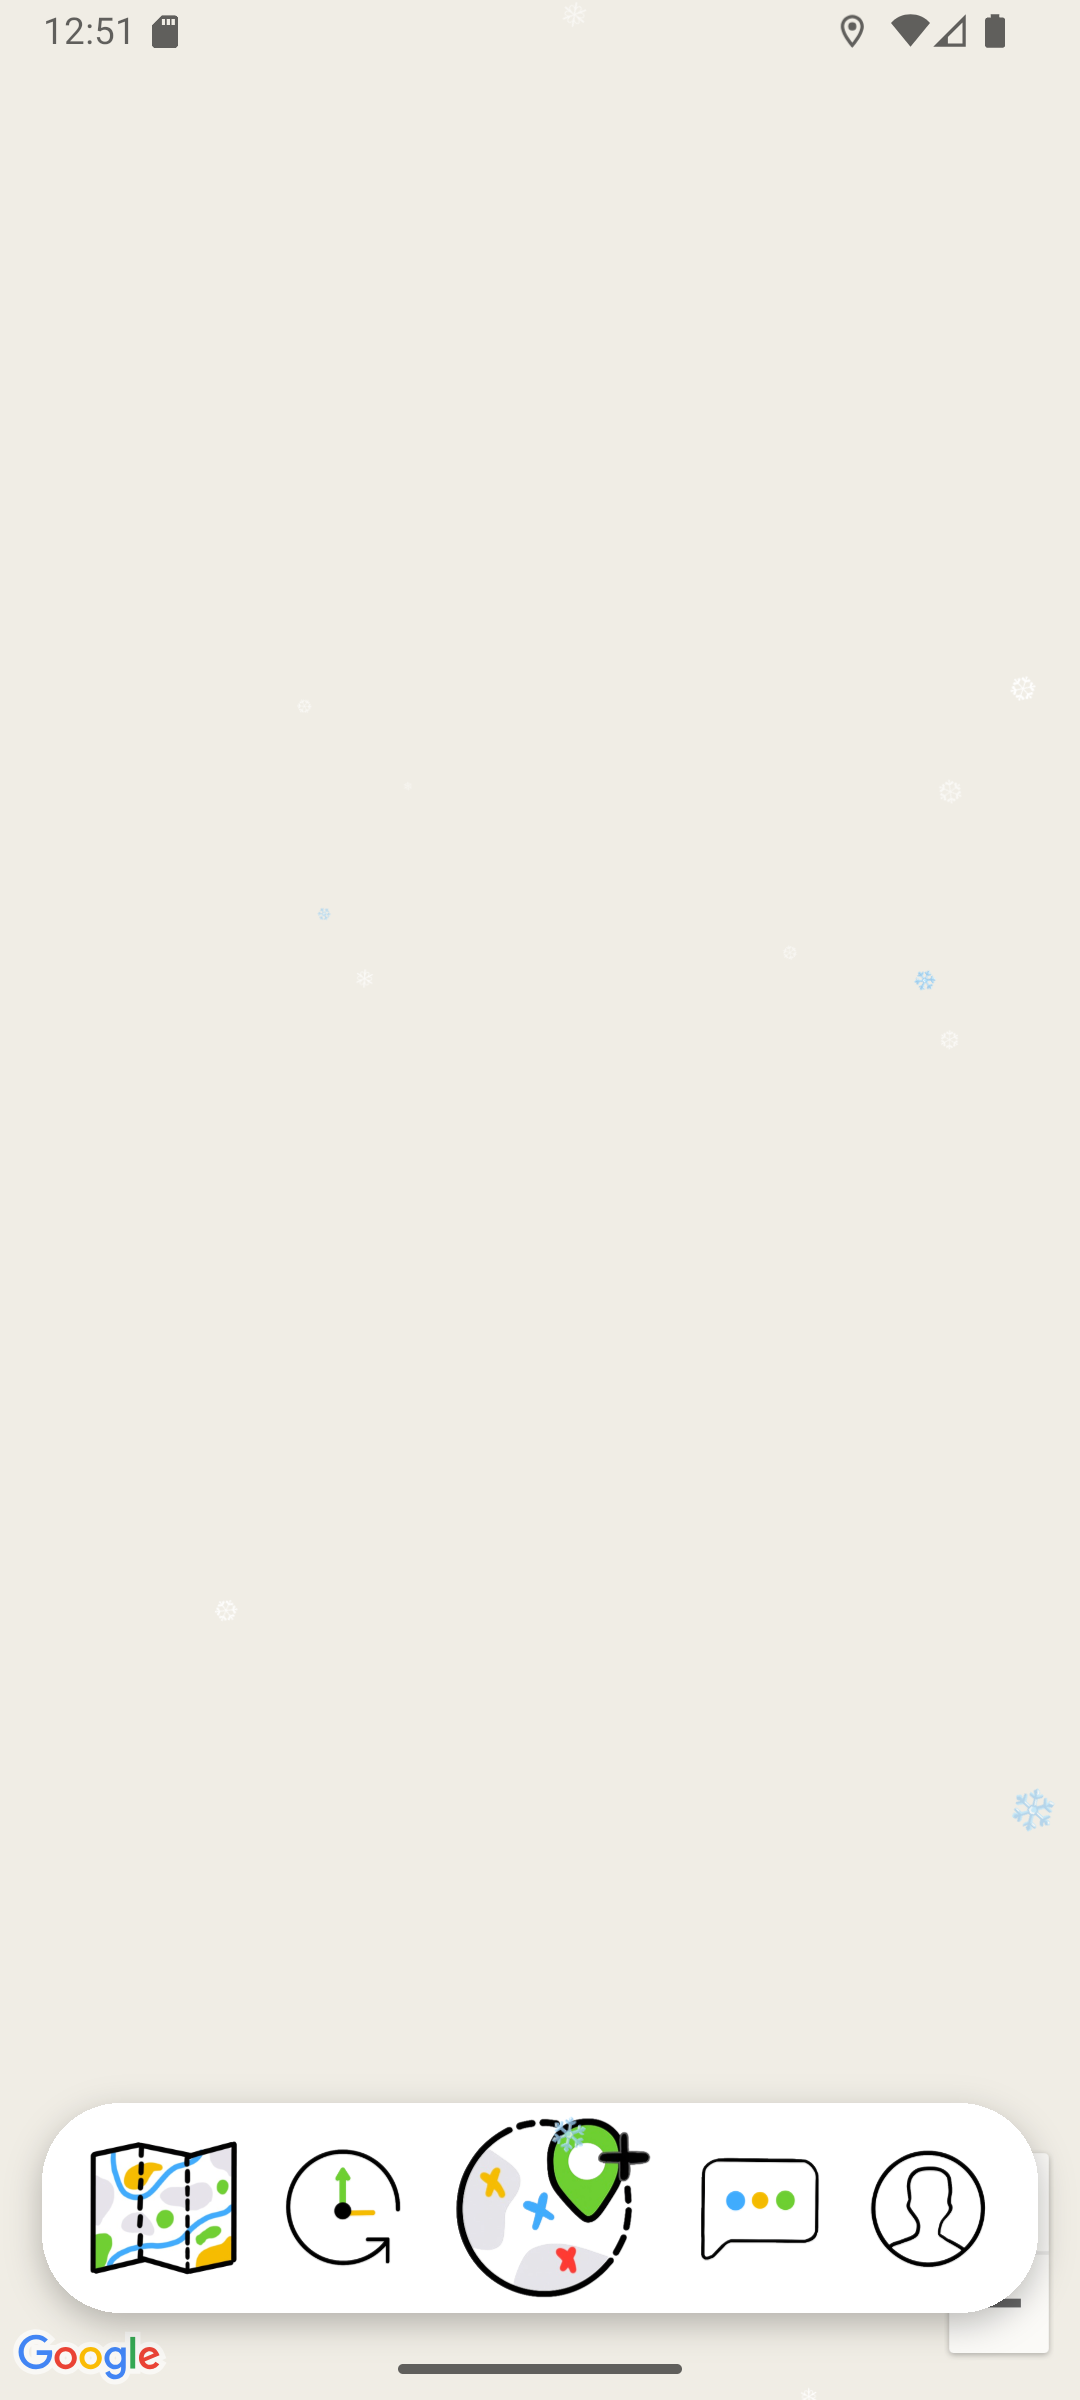
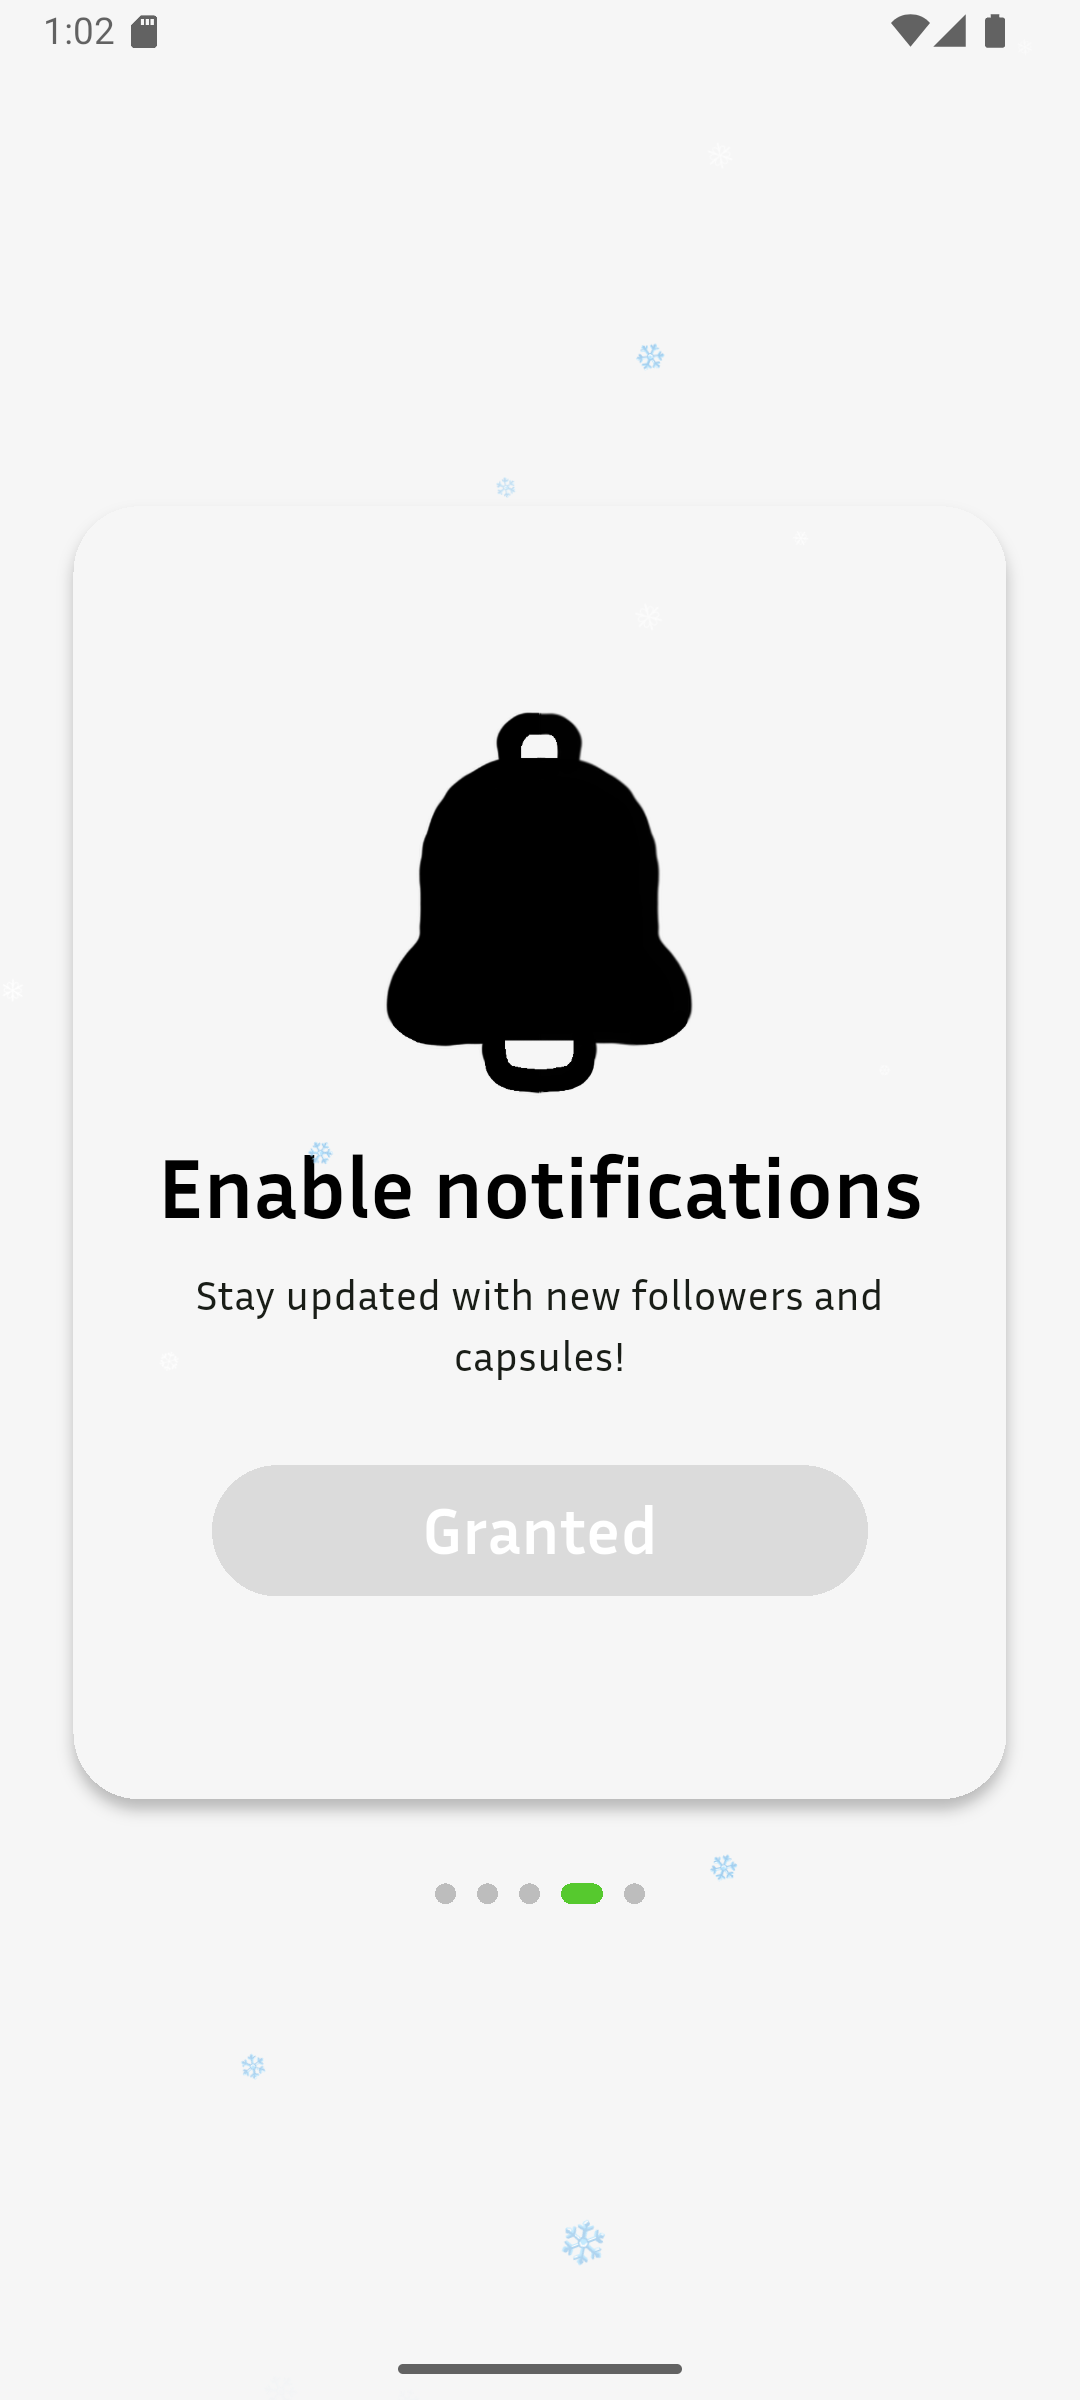
docs(refactor): retake the already-granted permission gate screenshot
Reproduced the before state (notifications granted, the rest revoked)
instead of an all-granted account, which skips the gate as before.

Claude-Session: https://claude.ai/code/session_011yx8uUPf1W6b7XF3Uf25Rr

diff --git a/docs/refactor/screenshots/COMPARISON.md b/docs/refactor/screenshots/COMPARISON.md
@@ -12,7 +12,7 @@ Both sets come from the same emulator (Pixel-class AVD, 1080×2400) against the 
 | `history_*` | Newest capsule first; the new "Living room" capsule shows its photo. | BUG-063 (ordering); BUG-055 (upload with content type). |
 | `add_friends` | Dave (who sent Alice a request) shows the add button instead of the pending clock; Erin (request sent) keeps the clock. | BUG-070. |
 | `add_friends_search` | "da" finds @davem. | BUG-072: case-insensitive prefix search. |
-| `permission_gate_notifications_already_granted` | After: the home map directly. | With every permission already granted the gate is skipped, which is the intended flow. The before shot showed the gate page. |
+| `permission_gate_notifications_already_granted` | Identical ("Granted" state). The gate now moves past already-granted pages on its own; this shot was taken by swiping back. | Gate auto-advance fix (see BUGS.md). |
 | `profile_second_user_after_switch`, `history_second_user` | Bob's own avatar and Alice's avatar load after the account switch. | BUG-012 and BUG-114: no data or cache survives from the previous account. |
 | `settings` | Name, @username and e-mail come from the live session (Auth for the e-mail). | BUG-011: no "Loading..."/placeholder uid. |
 | `capsule_creation_*` | Identical. Save shows the spinner once, and a double tap creates one capsule. | BUG-054 (behaviour, not visible in a still). |
